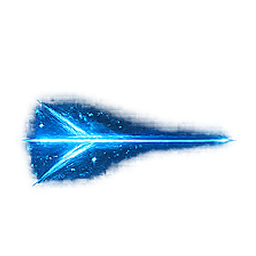
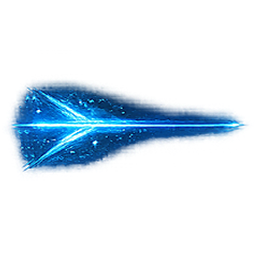
Updated GameFooter + footerAction

Changed region(s): [[0.0312, 0.3125, 0.9688, 0.75]]

diff --git a/src/components/footer/GameFooter.tsx b/src/components/footer/GameFooter.tsx
@@ -2,7 +2,6 @@
 import { useCallback, useEffect, useMemo, useRef, useState } from 'react';
 
 import { footerActions } from './footerAction';
-import bombSprite from '@/assets/items/gridlaser.png';
 import { usePowers } from '@/context/PowerContext';
 import { useAuth } from '@/context/AuthContext';
 import {
@@ -21,6 +20,12 @@ import type { PowerKey, Powers } from '@/types';
 type Props = {
   openSettings: () => void;
 };
+
+type FooterActionItem = ReturnType<typeof footerActions>[number];
+
+function isCounted(item: FooterActionItem): item is FooterActionItem & { count: number } {
+  return typeof item.count === 'number';
+}
 
 export default function GameFooter({ openSettings }: Props) {
   const { powers, setPowers } = usePowers();
@@ -209,33 +214,58 @@ export default function GameFooter({ openSettings }: Props) {
         const isBomb = item.id === 'bomb';
         const isActive = isBomb && armedBomb;
 
+        const counted = isCounted(item);
+        const canUse = counted ? item.count > 0 : true;
+        const isDisabled = counted ? item.count <= 0 : false;
+
+        const showCount = counted;
+        const showBadge = !counted && typeof item.badge === 'string' && item.badge.length > 0;
+
+        const iconPxActive = 60;
+        const iconPxInactive = iconPxActive - 1;
+        const iconPx = isActive ? iconPxActive : iconPxInactive;
+
         return (
           <button
             key={item.id}
             onClick={item.onClick}
             aria-label={item.label}
             aria-pressed={isActive}
+            disabled={isDisabled}
+            data-footer-btn={item.id}
             draggable={false}
             onDragStart={(e) => e.preventDefault()}
             className={[
-              'relative w-24 h-16 flex items-center justify-center border border-white/20 hover:scale-105 transition focus:outline-none focus:ring select-none',
+              'relative w-24 h-16 flex items-center justify-center rounded-xl border border-white/20 select-none',
+              'bg-white/5 backdrop-blur-sm',
+              'focus-visible:outline-none focus-visible:ring-2 focus-visible:ring-rose-500/60',
+              isDisabled ? 'opacity-40 cursor-not-allowed' : 'hover:scale-105 transition',
               isActive ? 'ring-2 ring-rose-500/60 shadow-[0_0_22px_rgba(244,63,94,0.22)]' : '',
             ].join(' ')}
             type="button"
           >
             <img
-              src={isBomb ? bombSprite : item.icon}
+              src={item.icon}
               alt=""
               aria-hidden="true"
               draggable={false}
-              className={['object-contain pointer-events-none select-none', isBomb ? 'w-80 h-80 pb-5' : 'w-8 h-8'].join(' ')}
+              style={{ width: iconPx, height: iconPx }}
+              className={[
+                'object-contain pointer-events-none select-none',
+                isActive ? 'drop-shadow-[0_0_10px_rgba(244,63,94,0.35)]' : '',
+                !canUse ? 'grayscale' : '',
+              ]
+                .filter(Boolean)
+                .join(' ')}
             />
-            {typeof item.count === 'number' && (
+
+            {showCount && (
               <span className="absolute bottom-0 right-0 w-6 h-6 flex items-center justify-center bg-gray-600 rounded-full border border-white/20 text-xs text-white">
                 {item.count}
               </span>
             )}
-            {!item.count && item.badge && (
+
+            {showBadge && (
               <span className="absolute bottom-0 right-0 w-6 h-6 flex items-center justify-center bg-gray-600 rounded-full border border-white/20">
                 <img src={item.badge} alt={item.label} className="w-3 h-3" aria-hidden="true" draggable={false} />
               </span>

diff --git a/src/components/footer/footerAction.ts b/src/components/footer/footerAction.ts
@@ -1,3 +1,11 @@
+// src/components/footer/footerAction.ts
+import type { PowerKey, Powers } from '@/types';
+
+import gridlaserIcon from '@/assets/items/gridlaser.png';
+import laserIcon from '@/assets/items/laser.png';
+import reshuffleIcon from '@/assets/items/reshuffle.png';
+// import button4IconPng from '@/assets/items/footer-button4.png';
+
 type ActionItem = {
   id: string;
   icon: string;
@@ -7,36 +15,43 @@ type ActionItem = {
   count?: number;
 };
 
-import type { PowerKey, Powers } from '@/types';
-
+/**
+ * Footer button model.
+ *
+ * PNG placeholders live in `src/assets/items/*`.
+ * Replace those PNG files with your final 256×256 transparent icons (keep filenames for zero code changes).
+ */
 export const footerActions = (openSettings: () => void, powers: Powers, onUsePower: (key: PowerKey) => void): ActionItem[] => [
   {
     id: 'bomb',
     label: 'Bomb',
-    icon: '/icons/bomb.svg',
+    icon: gridlaserIcon,
     count: powers.bomb,
     onClick: () => onUsePower('bomb'),
   },
   {
     id: 'laser',
     label: 'Laser',
-    icon: '/icons/laser.svg',
+    icon: laserIcon,
     count: powers.laser,
     onClick: () => onUsePower('laser'),
   },
   {
     id: 'extraShuffle',
     label: 'Reshuffle',
-    icon: '/icons/extraShuffle.svg',
+    icon: reshuffleIcon,
     count: powers.extraShuffle,
     onClick: () => onUsePower('extraShuffle'),
   },
+
+  // Button4 placeholder (function TBD)
   {
-    id: 'tip',
-    label: 'Tip',
-    icon: '/icons/key.svg',
-    onClick: () => console.log('Tip clicked'),
+    id: 'button4',
+    label: 'Button4',
+    // icon: button4IconPng,
+    onClick: () => undefined,
   },
+
   {
     id: 'settings-main',
     label: 'Settings',
